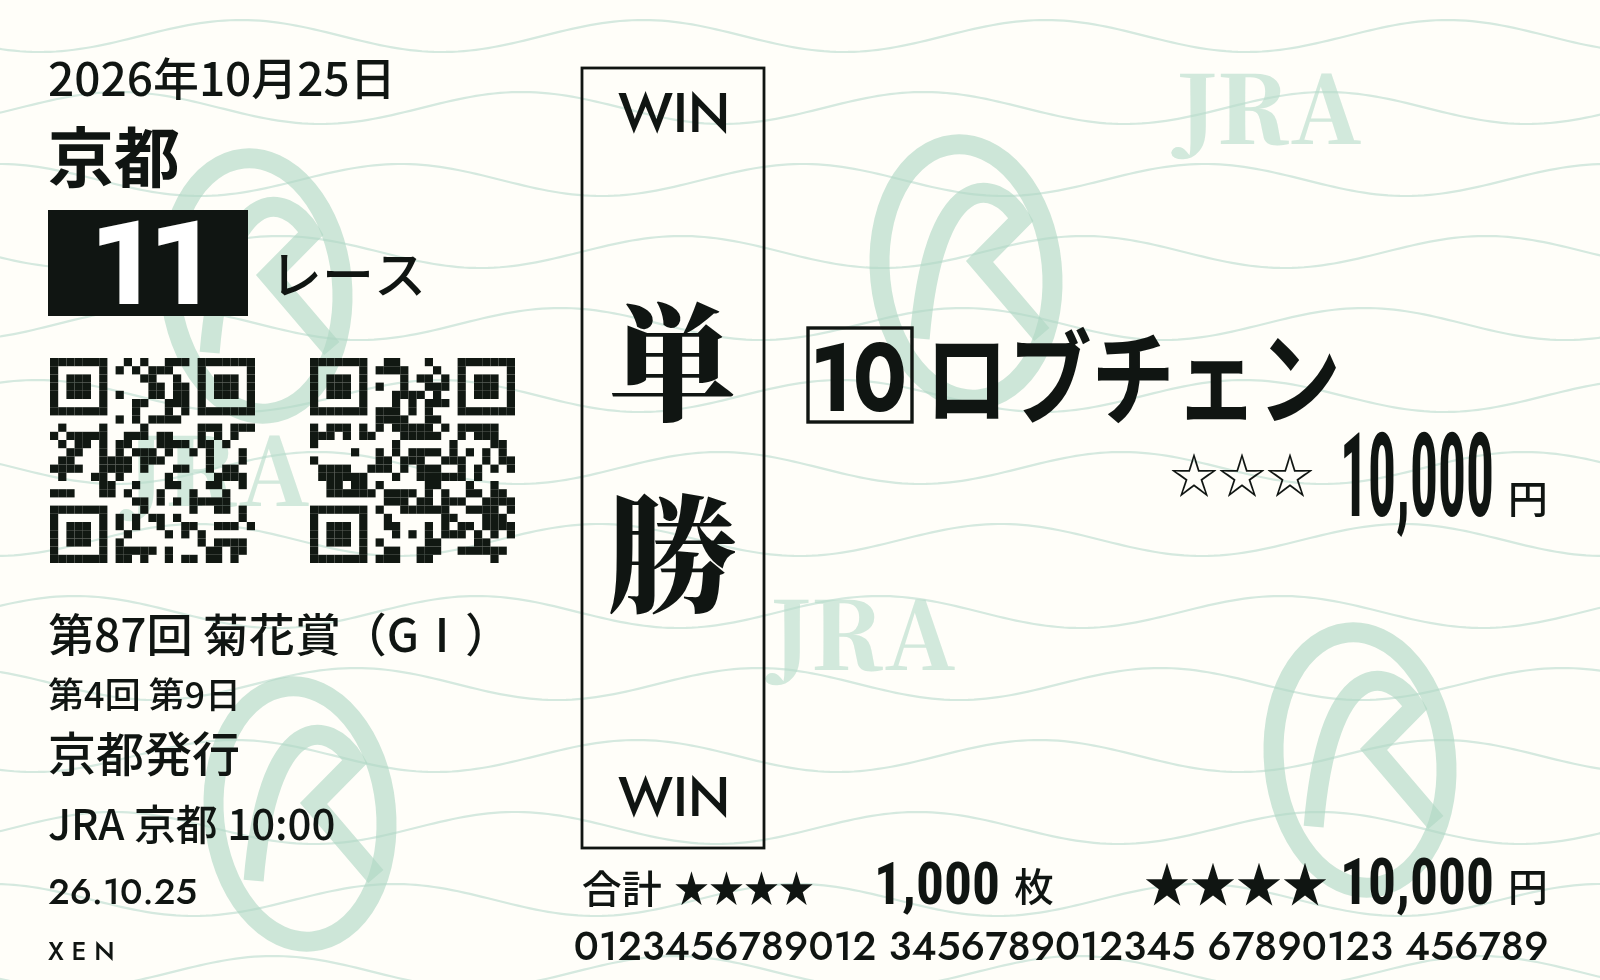
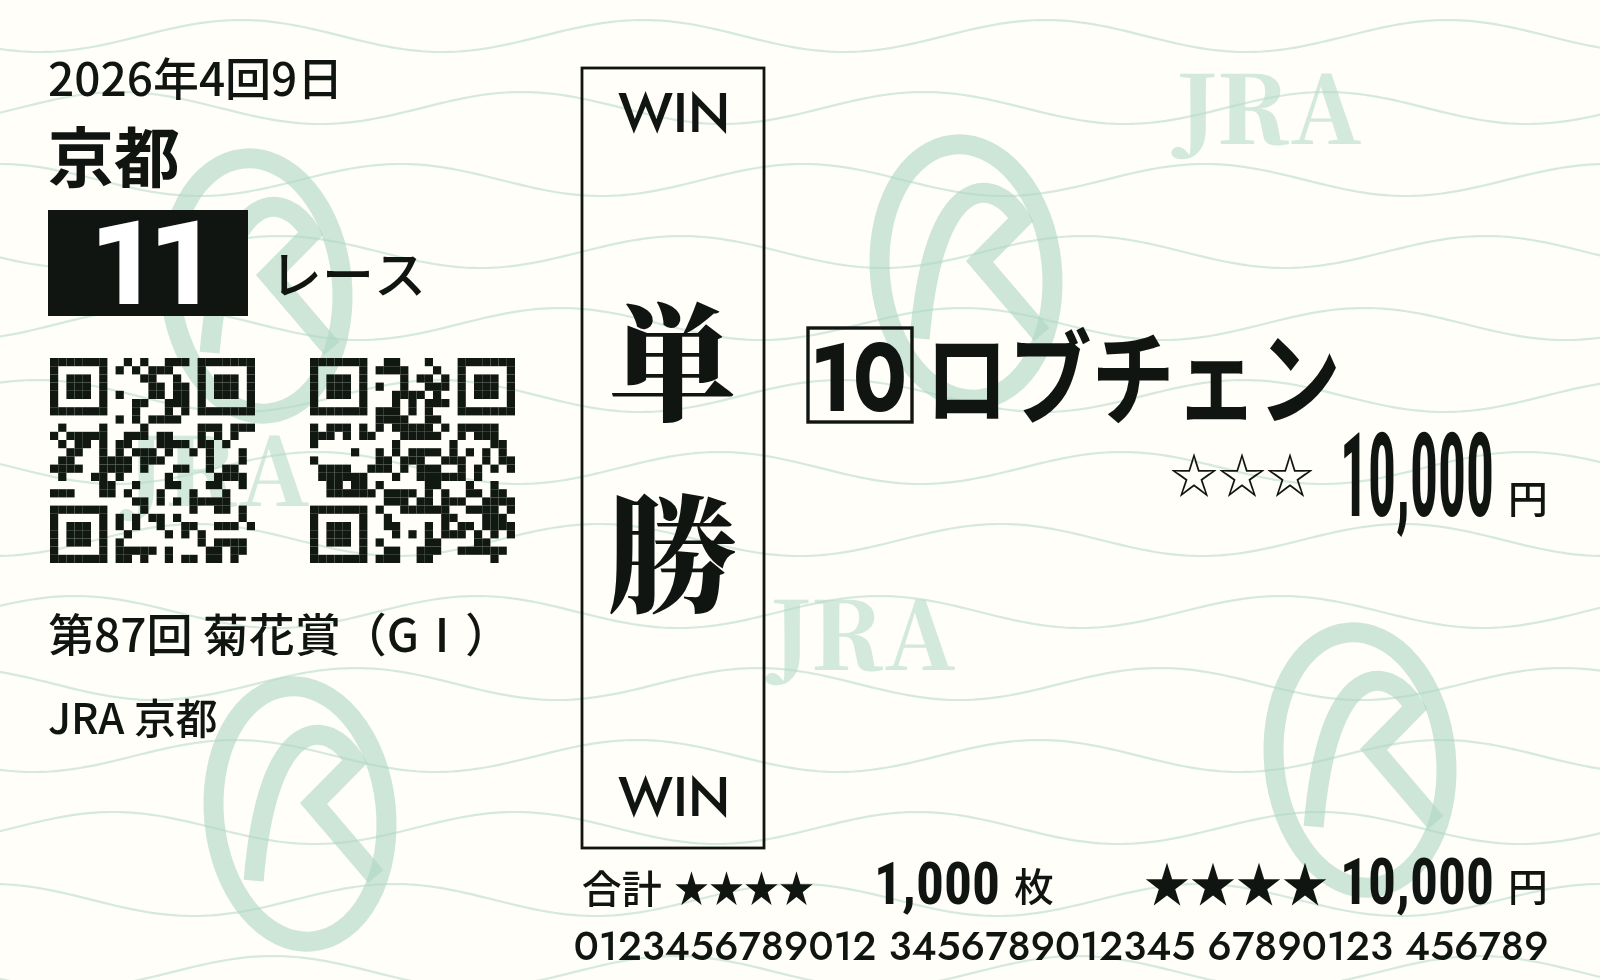
Match left-side ticket text to official samples

diff --git a/index.html b/index.html
@@ -24,7 +24,7 @@
 <button type="button" id="cancel-background" hidden>画像選択を取り消す</button>
 <div id="image-controls" hidden><div class="slider"><label for="image-x">左右位置</label><output id="image-x-value">50%</output><input id="image-x" type="range" min="0" max="100" value="50"></div><div class="slider"><label for="image-y">上下位置</label><output id="image-y-value">50%</output><input id="image-y" type="range" min="0" max="100" value="50"></div><div class="slider"><label for="image-zoom">拡大率</label><output id="image-zoom-value">100%</output><input id="image-zoom" type="range" min="100" max="300" value="100"></div><div class="slider"><label for="image-fade">薄さ</label><output id="image-fade-value">35%</output><input id="image-fade" type="range" min="0" max="100" value="35"></div><div class="image-actions"><button type="button" id="reset-image">配置をリセット</button><button type="button" id="remove-image">画像を削除</button></div></div>
 </section>
-<section class="form-section details-section"><details><summary>詳細設定 <span>開催情報・発券情報</span></summary><div class="grid details-grid"><div class="field"><label for="meeting">開催回</label><input name="meeting" id="meeting" type="number" min="1" max="99" value="4"><small class="error" id="meeting-error"></small></div><div class="field"><label for="day">開催日目</label><input name="day" id="day" type="number" min="1" max="99" value="1"><small class="error" id="day-error"></small></div><div class="field full"><label for="raceName">レース名</label><input name="raceName" id="raceName" maxlength="80" placeholder="例：第87回 菊花賞（GⅠ）"></div><div class="field"><label for="issuePlace">発券場所</label><input name="issuePlace" id="issuePlace" value="東京" maxlength="24" required><small class="error" id="issuePlace-error"></small></div><div class="field"><label for="issueTime">発券時刻</label><input name="issueTime" id="issueTime" type="time" value="10:00" required><small class="error" id="issueTime-error"></small></div><div class="field full"><label for="serial">管理番号</label><input name="serial" id="serial" value="0123456789012 3456789012345 67890123 456789" maxlength="60" required><small class="error" id="serial-error"></small></div></div></details></section>
+<section class="form-section details-section"><details><summary>詳細設定 <span>開催情報・発券情報</span></summary><div class="grid details-grid"><div class="field"><label for="meeting">開催回</label><input name="meeting" id="meeting" type="number" min="1" max="99" value="4"><small class="error" id="meeting-error"></small></div><div class="field"><label for="day">開催日目</label><input name="day" id="day" type="number" min="1" max="99" value="1"><small class="error" id="day-error"></small></div><div class="field full"><label for="raceName">レース名</label><input name="raceName" id="raceName" maxlength="80" placeholder="例：第87回 菊花賞（GⅠ）"></div><div class="field"><label for="issueType">発券場所の種別</label><select name="issueType" id="issueType"><option value="JRA">JRA</option><option value="WINS">WINS</option></select></div><div class="field"><label for="issuePlace">競馬場・施設名</label><input name="issuePlace" id="issuePlace" value="東京" placeholder="例：東京・後楽園" maxlength="24" required><small class="error" id="issuePlace-error"></small></div><div class="field full"><label for="serial">管理番号</label><input name="serial" id="serial" value="0123456789012 3456789012345 67890123 456789" maxlength="60" required><small class="error" id="serial-error"></small></div></div></details></section>
 </form></aside>
 </main><footer><span>オリジナル馬券ジェネレーター</span><a href="./fonts/LICENSES.html" target="_blank" rel="noopener">フォント・ライセンス ↗</a></footer>
 </body></html>

diff --git a/app.js b/app.js
@@ -24,8 +24,7 @@
       data[key] = data[key].trim();
       if(!data[key]) errors[key] = `${title}を入力してください。`;
     }
-    if(!/^\d{2}:\d{2}$/.test(data.issueTime || '') || !$('issueTime').validity.valid) errors.issueTime = '発券時刻を入力してください。';
-    for(const key of ['race','horse','meeting','day','amount','date','horseName','issuePlace','serial','issueTime']) {
+    for(const key of ['race','horse','meeting','day','amount','date','horseName','issuePlace','serial']) {
       $(key+'-error').textContent = errors[key] || '';
       $(key).setAttribute('aria-invalid',Boolean(errors[key]));
       $(key).setAttribute('aria-describedby',key+'-error');
@@ -160,16 +159,13 @@
   }
   function drawTicket(d){
     ctx.setTransform(2,0,0,2,0,0);ctx.clearRect(0,0,800,490);drawBackground();
-    const [year,month,day]=d.date.split('-');
-    text(`${year}年${Number(month)}月${Number(day)}日`,24,48,23,'sans',500,250);
+    const year=d.date.split('-')[0];
+    text(`${year}年${d.meeting}回${d.day}日`,24,48,23,'sans',500,250);
     text(`${d.venue}`,24,91,33,'sans',700,230);
     blackBox(24,105,100,53);centeredText(d.race,74,131.5,58,'number',700,88,'#fff');text('レース',135,147,26,'sans',500,136);
     decorativeCode(25,179,2546789);decorativeCode(155,179,983715);
-    text(d.raceName||`第${d.meeting}回 第${d.day}日`,24,326,23,'sans',500,244);
-    if(d.raceName)text(`第${d.meeting}回 第${d.day}日`,24,354,18,'sans',500,244);
-    text(`${d.issuePlace}発行`,24,d.raceName?386:367,24,'sans',500,244);
-    text(`JRA ${d.issuePlace} ${d.issueTime}`,24,420,21,'sans',500,244);
-    text(`${year.slice(2)}.${month}.${day}`,24,452,18,'number',500,220);
+    if(d.raceName)text(d.raceName,24,326,23,'sans',500,244);
+    text(`${d.issueType} ${d.issuePlace}`,24,367,21,'sans',500,244);
     drawBand(d.type);
     const horseTop=d.type==='cheer'?138:164;
     if(d.type==='cheer'){
@@ -190,7 +186,6 @@
     numericText(number(count),507-7-numericWidth(number(count)),452,30);text('枚',507,451,20,'sans',500);
     money(total,774,452,32,242,4,'★');
     rightBottomText(d.serial,774,480);
-    text('X E N',24,480,13,'number',500,200);
   }
   form.addEventListener('submit',e=>e.preventDefault());
   form.addEventListener('input',e=>{if(e.target.id!=='background')validate();});

diff --git a/docs/VERIFICATION.md b/docs/VERIFICATION.md
@@ -17,7 +17,7 @@
 - [x] 背景指定時に透かしを消す、薄さ100%でも非表示、削除後に復帰（画素でも検証）
 - [x] コード内部の抜けに背景色がそのまま残る（画素でも検証）
 - [x] 背景なし・ありのPNGは券面のみ、1600×980px
-- [x] 菊花賞の指定例（2026-10-25、京都11R、第4回第9日、第87回 菊花賞（GⅠ）、10番ロブチェン、単勝10,000円、京都発行）
+- [x] 菊花賞の指定例（2026-10-25、京都11R、第4回第9日、第87回 菊花賞（GⅠ）、10番ロブチェン、単勝10,000円、JRA 京都）
 - [x] 1120px・1440pxのPC画面、2カラム。削除済み紹介文はなし
 - [x] `/baken-generator/` のサブパスで全アセットを読み込み、404なし
 - [x] 外部リクエストなし（サイト自身のGETとブラウザ内部のblob参照のみ）、JSエラーなし
@@ -64,3 +64,11 @@
 - JRA公式応援サンプルの番号を拡大確認し、初期値を40桁（13・13・8・6桁区切り）に変更。
 - 番号の見えている右端をx=774、下端をy=480に揃え、短い値や最長60文字でも右下位置を固定。
 - Chromiumで3券種と100円・10,000円・999,900円、番号の短い値・初期値・最大長を確認。単位の間隔と番号の字形境界を描画座標で確認し、PNG保存でも収まりを確認。
+
+## 左側印字の公式サンプルとの整合（2026-10-19）
+
+- 左上を年月日から「年・開催回・開催日目」（例：2026年4回9日）に変更。
+- レース名の下に重複表示していた開催回・日目、およびレース名未入力時の開催情報への置き換えを削除。
+- 発券場所は「JRA 競馬場名」または「WINS 施設名」の1行とし、種別選択を追加。
+- 「施設名＋発行」の重複行、発券時刻、発行日（YY.MM.DD）、下部X E Nを削除。発券時刻の入力欄・検証も削除。
+- Chromiumで3券種の左側印字、JRA/WINS切り替え、開催年・回・日目の変更、レース名未入力、入力エラーと保存PNGを確認。
